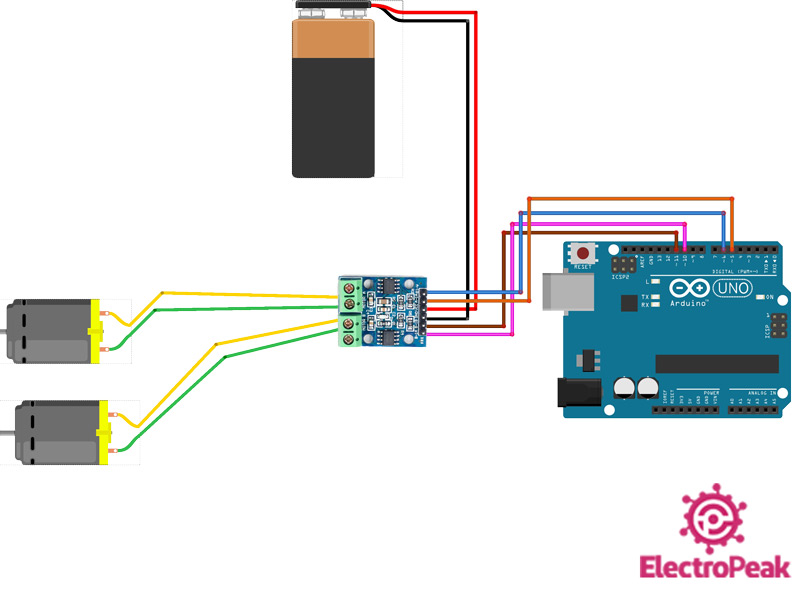
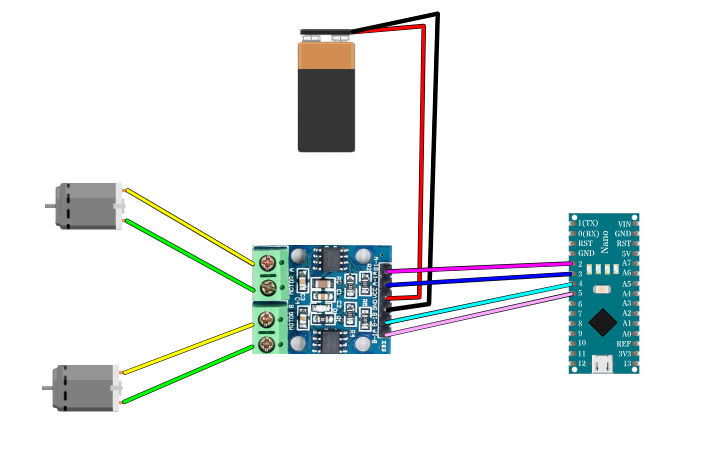
Update images, move some folders, add readme for apis

Changed region(s): [[0.0, 0.0, 1.0, 0.8824], [0.7944, 0.8235, 1.0, 1.0]]

diff --git a/programmschnittstellen/README.md b/programmschnittstellen/README.md
@@ -1,0 +1,5 @@
+# Programmschnittstellen
+
+Die Programmschnittstellen können in der Arduino IDE unter dem
+Punkt `Sketch->Bibliothek einbinden->.ZIP Bibliothek hinzufügen` als Zip eingebunden werden. Dazu müssen die
+Unterverzeichnisse `motorsteuerung` und `raven` vorher in zwei zip dateien komprimiert werden.

diff --git a/README.md b/README.md
@@ -46,3 +46,8 @@ anschließt.
 ### Kabelgebunden
 
 Für die kabelgebundene Kommunikation wird lediglich ein USB-Kabel benötigt.
+
+
+## Arduino Nano Pinout
+
+![Arduino Pinout](schaltungen/Arduino pinout.png)
